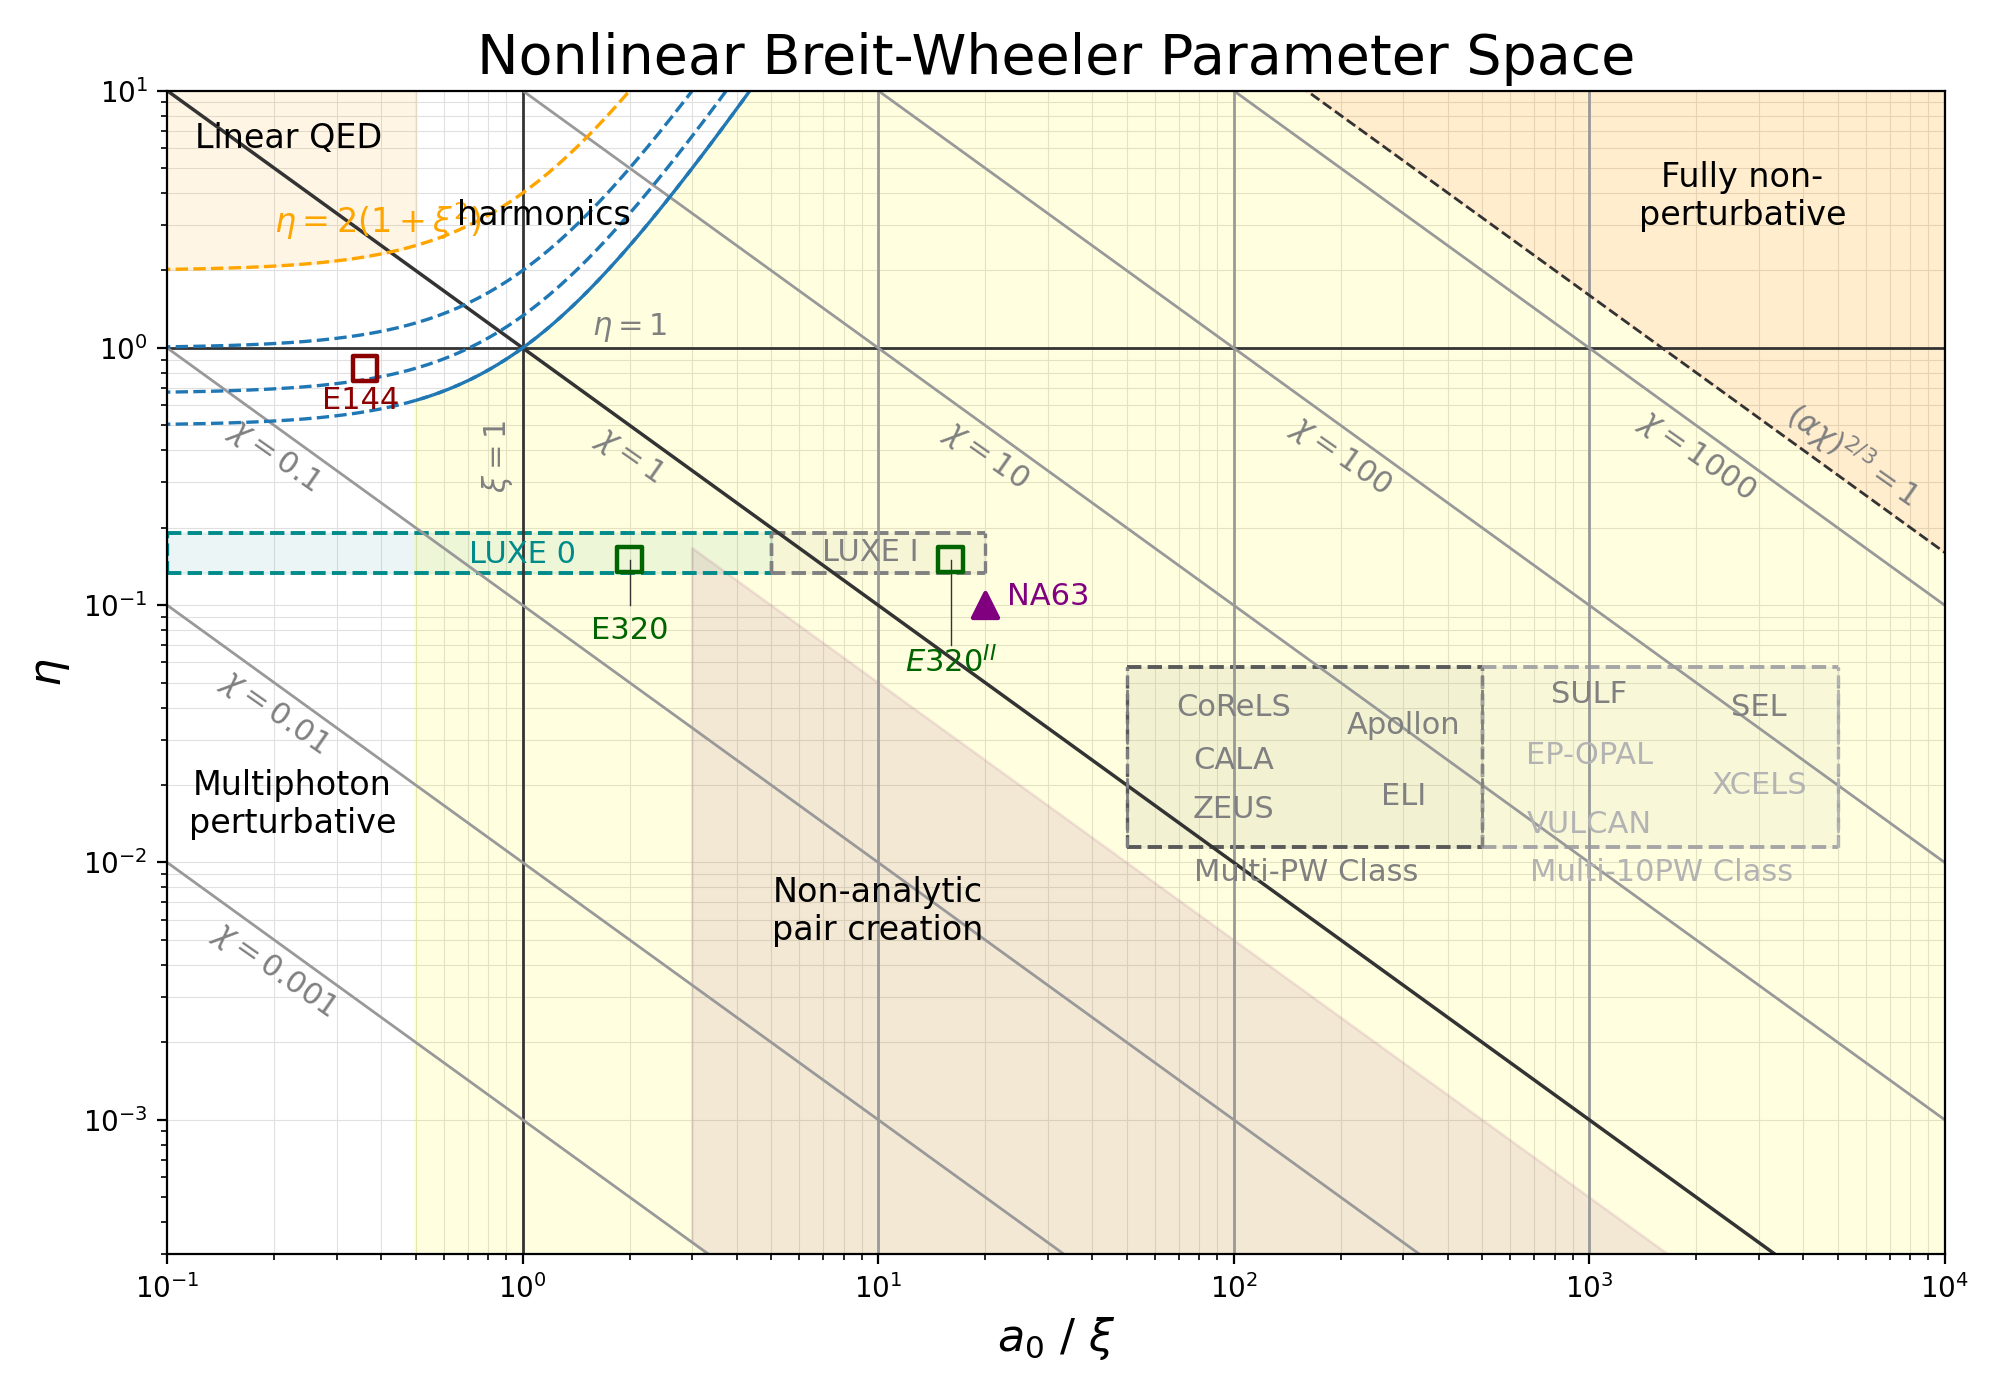
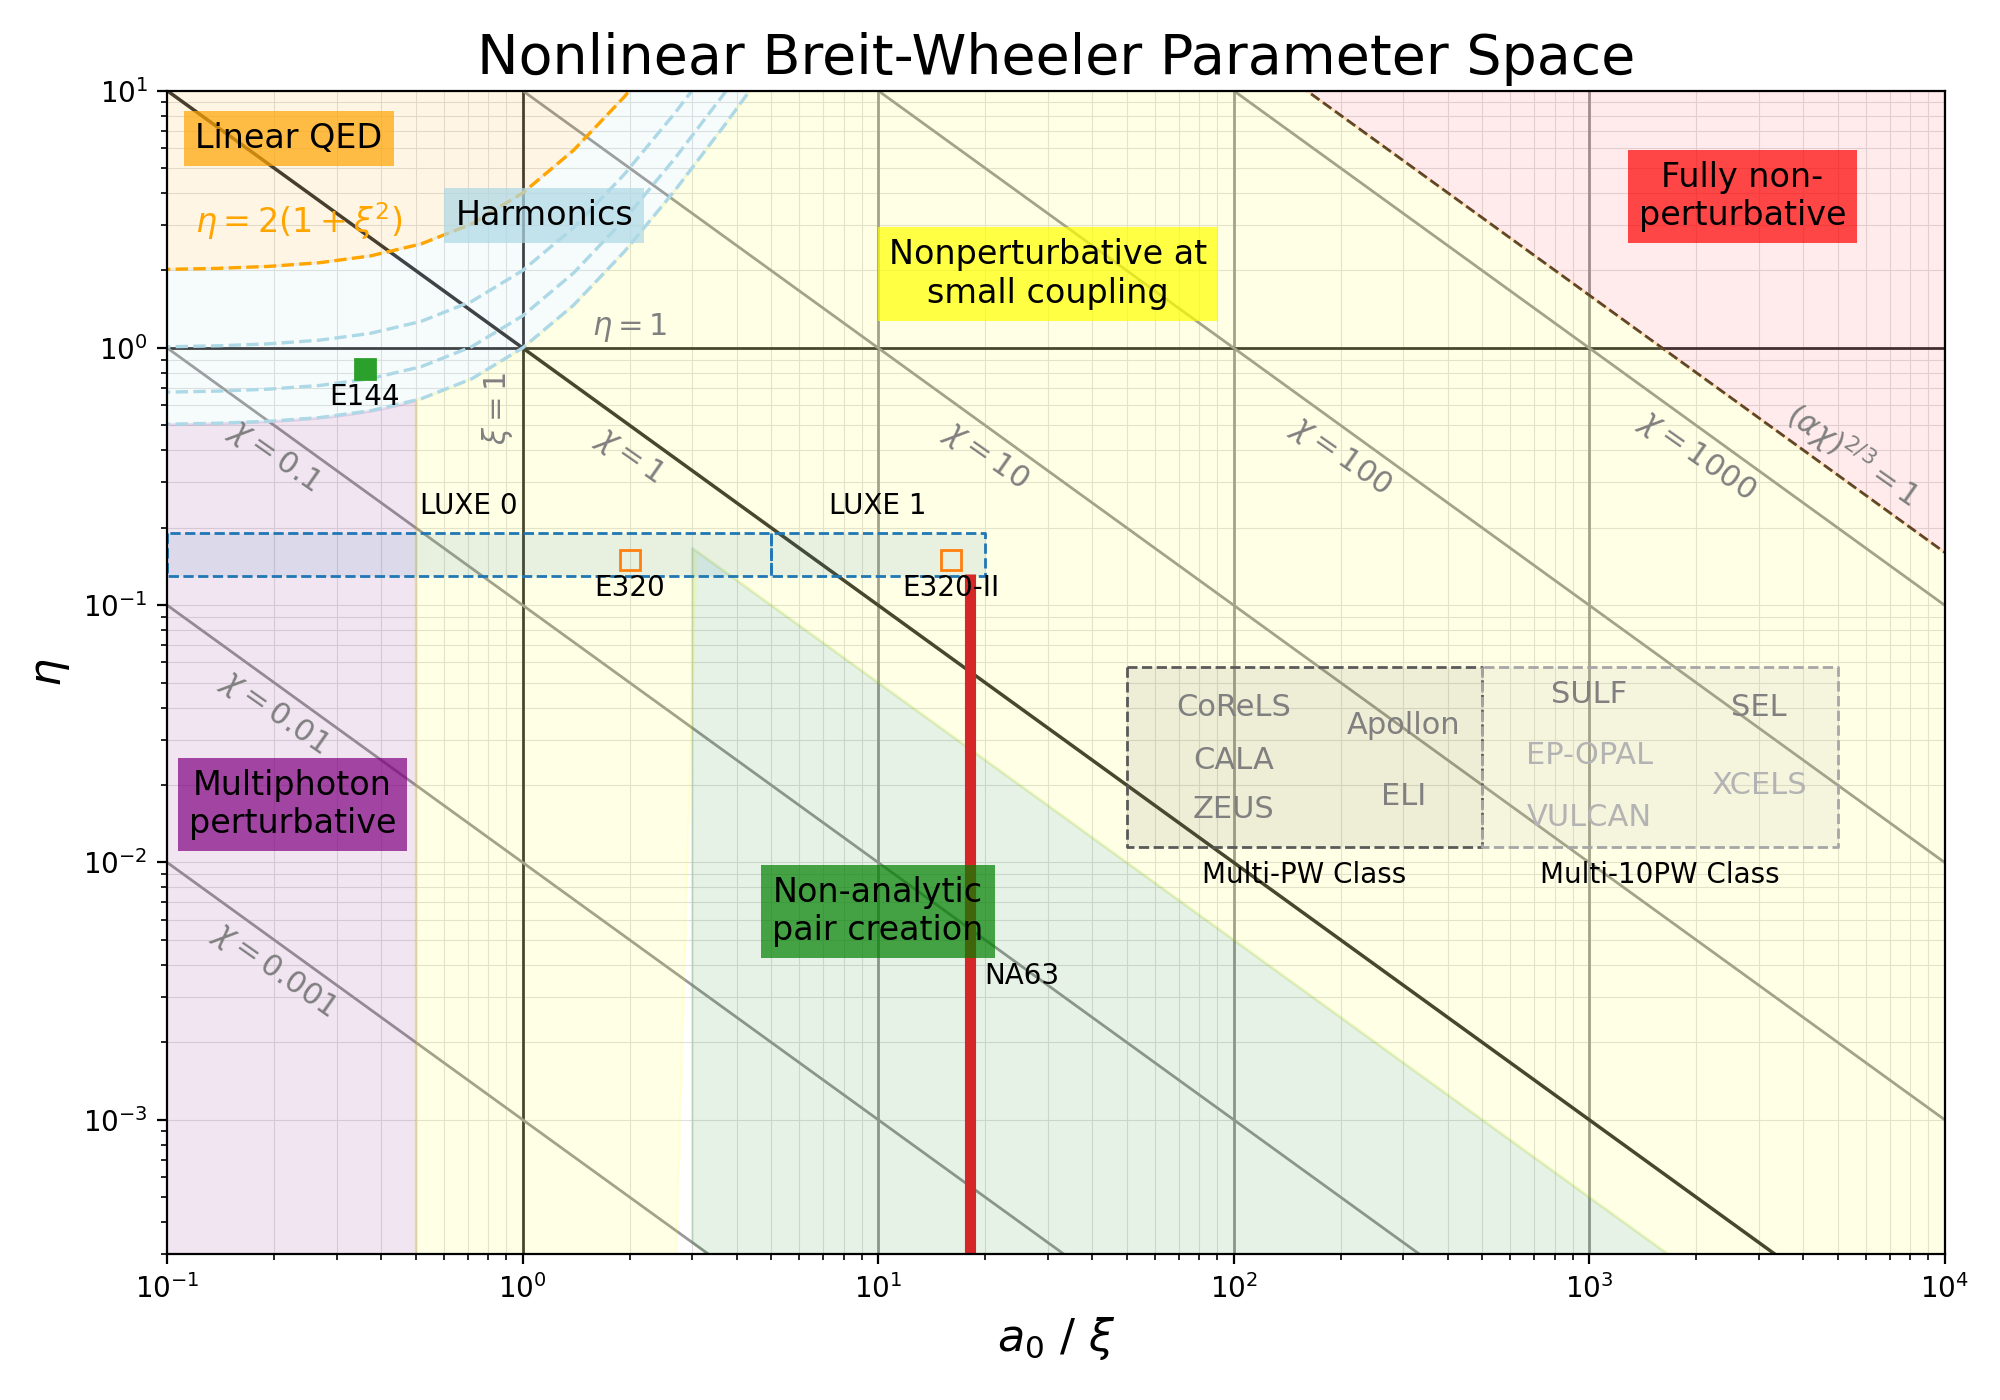
added nonlinear Breit-Wheeler notebook and corresponding plots and functions

diff --git a/src/plotFct.py b/src/plotFct.py
@@ -153,8 +153,8 @@ def draw_nbw_regimes (ax: plt.Axes) -> None:
     
     _fill_between(ax, np.geomspace(3, 10000), lambda xx: 0.5 / xx, lambda xx: 0.001 / xx, color="green", alpha=0.1)
     ax.text(10, 0.005, "Non-analytic\npair creation", fontsize=12, ha="center", bbox=dict(facecolor="green", edgecolor="none", alpha=0.7))
-
-    _fill_between(ax, np.geomspace(0.5, 10000), lambda xx: 0.5 * (1 + xx**2), 1e-5, color="yellow", alpha=0.1)
+    
+    _fill_between(ax, np.geomspace(0.5, 10000), lambda xx: np.where(xx>3, np.maximum(1e-5, 0.5 / xx), 1e-5), lambda xx: np.minimum(0.5 * (1 + xx**2), 137.0 ** 1.5 / xx), color="yellow", alpha=0.1)
     ax.text(30, 1.5, "Nonperturbative at\nsmall coupling", fontsize=12, ha="center", bbox=dict(facecolor="yellow", edgecolor="none", alpha=0.7))
 
     _fill_between(ax, np.geomspace(0.001, 10000), lambda xx: 137.0 ** 1.5 / xx, 100, color="red", alpha=0.08)